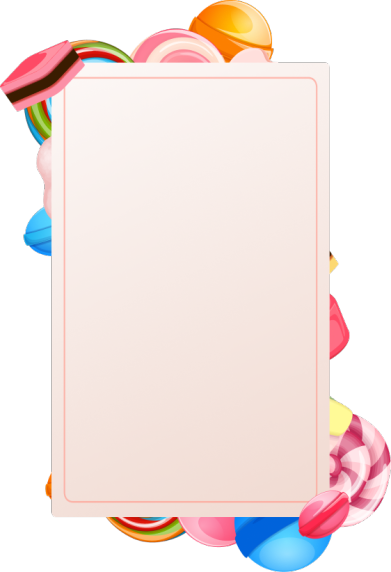
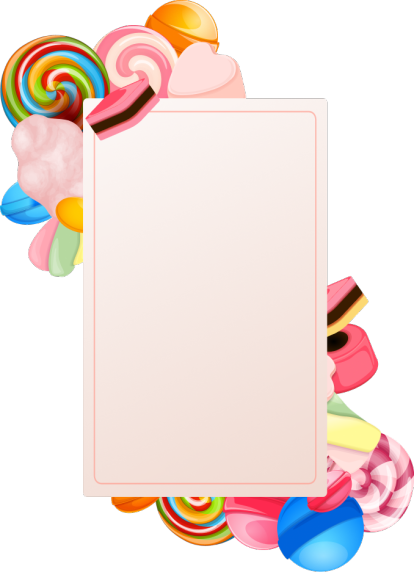
change images

Changed region(s): [[0.0, 0.0, 1.0, 1.0], [0.7366, 0.1783, 0.7673, 0.3269]]

diff --git a/src/components/AuthenticationPopup/styles.module.scss b/src/components/AuthenticationPopup/styles.module.scss
@@ -14,18 +14,20 @@
   @media (max-width: $screen-sm) {
     background: url('../../data/backgrounds/popup/popup-bg.png');
     background-repeat: no-repeat;
-    background-size: 100% 100%;
+    background-size: 100% 110%;
     width: 700px;
     height: 740px;
   }
 
   @media (max-width: $screen-xs) {
-    background-size: 105% 105%;
+    background-size: 120% 115%;
+    margin-left: -8%;
+    margin-right: -4%;
   }
 
   &.portraitBg {
     // width: 800px;
-    background: url('../../data/backgrounds/popup/popup-bg.png');
+    background: url('../../data/backgrounds/popup/popup-bg-login.png');
     background-repeat: no-repeat;
     background-size: contain;
     background-position: center;
@@ -35,11 +37,13 @@
       background-repeat: no-repeat;
       background-size: 100% 100%;
       width: 700px;
-      height: 670px;
+      // height: 670px;
     }
 
     @media (max-width: $screen-xs) {
-      background-size: 105% 105%;
+      background-size: 110% 105%;
+      margin-left: 0;
+      margin-right: 0;
     }
 
 
@@ -263,23 +267,33 @@
     @media (max-width: $screen-sm) {
       width: 100%;
       flex-direction: column;
-      padding: 80px 20% 20px 18%;
+      padding: 130px 25% 20px 24%;
     }
 
     @media (max-width: $screen-xs) {
-      padding: 80px 17% 20px 18%;
+      padding: 135px 10% 20px 30%;
     }
 
     &.loginForm {
       // padding: 120px 50px 80px 50px;
       // width: 400px;
-      padding-top: 100px;
+      padding-top: 120px;
+      padding-left: 0;
       flex-direction: column;
+
+      @media (max-width: $screen-md) {
+        padding-right: 50px;
+      }
 
       @media (max-width: $screen-sm) {
         // width: 100%;
         // min-height: fit-content;
         // padding: 100px 0 20px;
+        padding: 135px 25% 20px 24%;
+      }
+
+      @media (max-width: $screen-xs) {
+        padding: 135px 18% 20px 27%;
       }
     }
   }

diff --git a/src/components/UsernamePopup/styles.module.scss b/src/components/UsernamePopup/styles.module.scss
@@ -15,9 +15,9 @@
   height: 740px;
 
   @media (max-width: $screen-sm) {
-    padding: 30px 90px 60px;
-    padding-right: 110px;
-    padding-top: 120px;
+    padding: 30px 125px 60px;
+    padding-right: 130px;
+    padding-top: 180px;
     background: url('../../data/backgrounds/popup/popup-bg.png');
     background-repeat: no-repeat;
     background-size: 100% 100%;
@@ -26,8 +26,9 @@
 
   @media (max-width: $screen-xs) {
     padding: 30px 70px 60px;
-    padding-top: 120px;
+    padding-top: 170px;
     padding-right: 85px;
+    background-size: 135% 115%;
   }
 
   .title {
@@ -55,9 +56,14 @@
       margin-bottom: 40px;
       color: black;
       line-height: 36px;
+      white-space: nowrap;
 
       @media (max-width: $screen-sm) {
         font-size: 16px;
+      }
+
+      @media (max-width: $screen-xs) {
+        white-space: normal;
       }
     }
 
